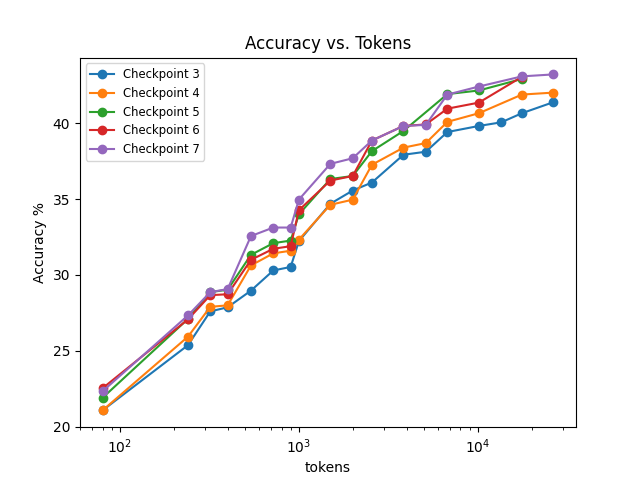
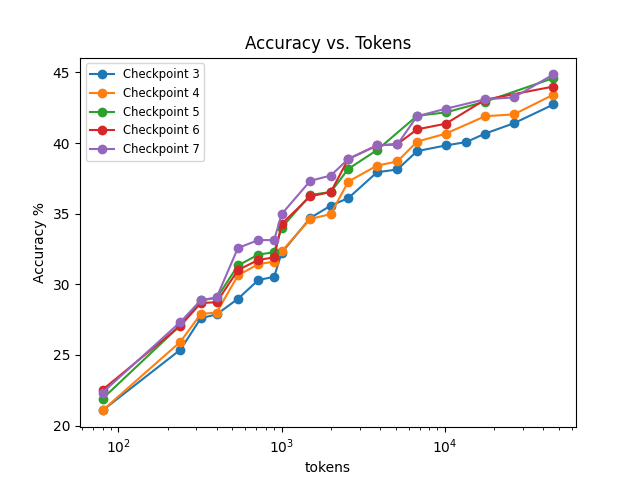
Stream of Search Beta

diff --git a/results/create_plots.py b/results/create_plots.py
@@ -21,6 +21,9 @@ data = {
     (21, 42): [10.77, 17.43, 40.67, 41.90, 42.93, 43.07, 43.10],
     (21, 63): [15.83, 21.10, 41.40, 42.03, 42.90, 42.97, 43.23],
     (21, 84): [18.63, 23.17, 41.33, 41.87, 42.90, 42.90, 43.10],
+    (34, 68): [11.67, 17.27, 42.73, 43.43, 44.60, 44.00, 44.86],
+    (34, 102): [16.57, 20.13, 42.63, 43.13, 44.27, 43.83, 44.42],
+    (34, 136): [18.80, 21.97, 42.40, 43.20, 44.10, 43.77, 44.38],
 }
 
 # Prepare x and y for each curve, removing points where a later x has a higher y (make curves non-decreasing)
@@ -41,10 +44,7 @@ for y_curve in zip(*data.values()):
     filtered_ys.append(filtered_y)
 
 for i, (x, y) in enumerate(zip(filtered_xs, filtered_ys)):
-    if i == 0 or i == 1:
-        continue
-    else:
-        plt.plot(x, y, marker='o', label=f'Checkpoint {i+1}')
+    plt.plot(x, y, marker='o', label=f'Checkpoint {i+1}')
     
 
 plt.xlabel('tokens')
@@ -52,5 +52,5 @@ plt.ylabel('Accuracy %')
 plt.xscale('log')
 plt.legend(fontsize='small')
 plt.title('Accuracy vs. Tokens')
-plt.savefig('plot*.png')
+plt.savefig('plot.png')
 plt.show()
